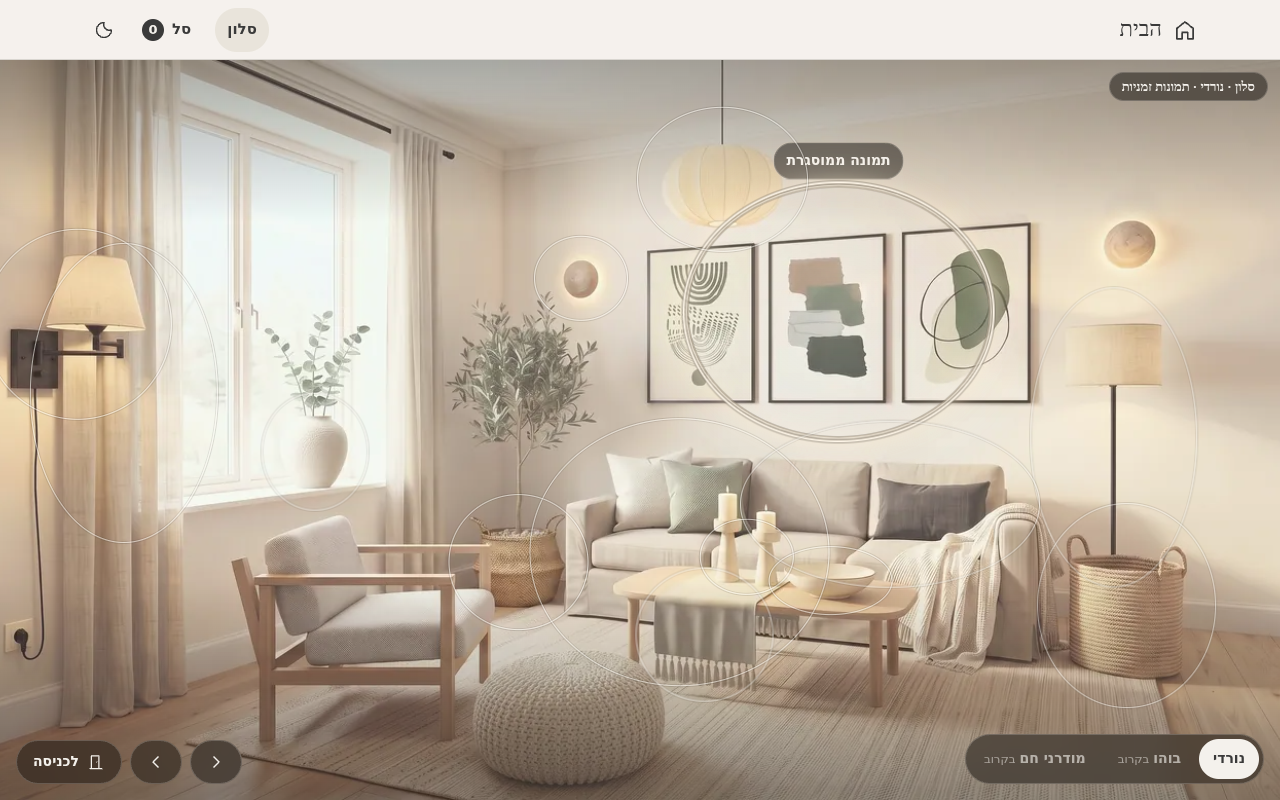
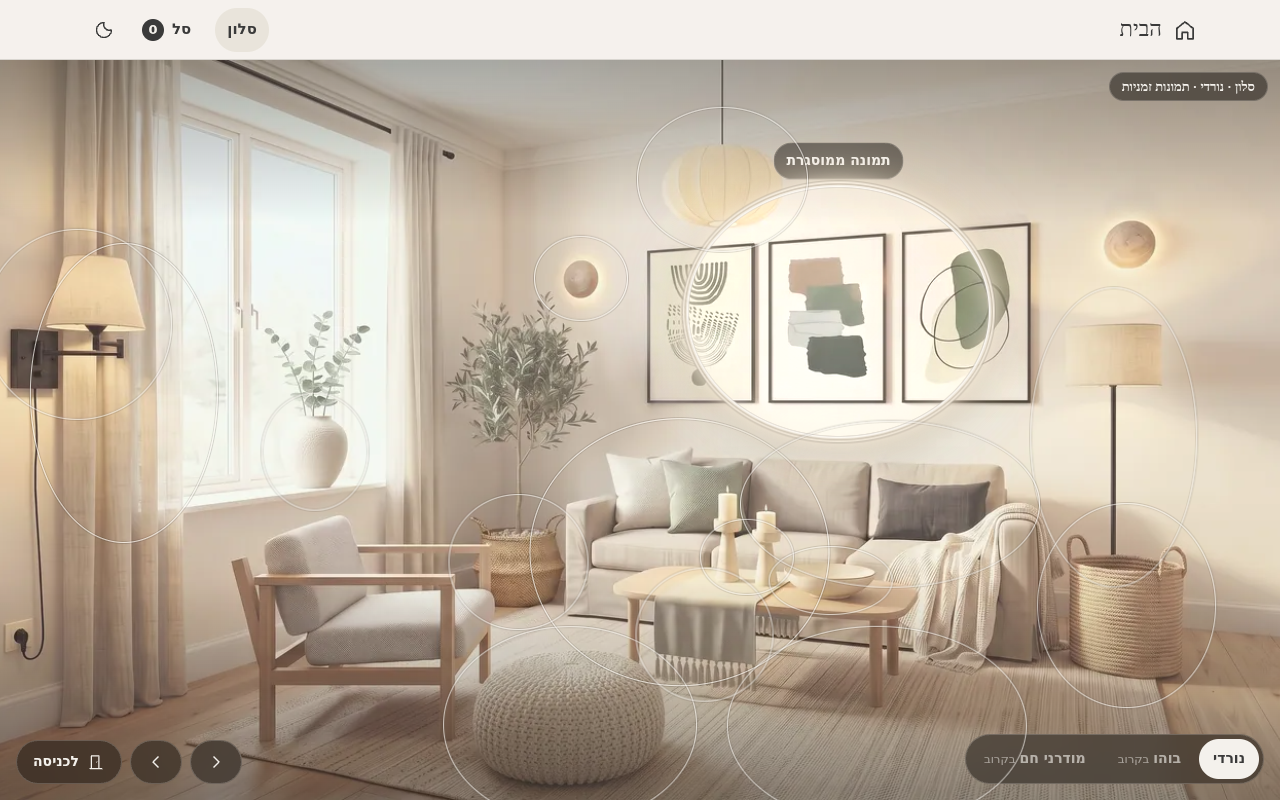
UI fixes WIP after restart
Claude-Session: https://claude.ai/code/session_012un7iEDRha5J5s2Ea72wCe

diff --git a/site/tools/screens-room.ts b/site/tools/screens-room.ts
@@ -208,8 +208,11 @@ async function hotspots(): Promise<void> {
   await page.waitForTimeout(500);
   await page.screenshot({ path: `${OUT}/${PREFIX}hotspots-glow-hover.png` });
   await page.mouse.move(5, 5);
-  await page.keyboard.press('Tab');
-  await page.locator('button.hotspot[data-slot="framed-art"]').focus();
+  // real keyboard focus (Tab), as a keyboard user gets it
+  for (let i = 0; i < 40; i++) {
+    await page.keyboard.press('Tab');
+    if (await page.evaluate('document.activeElement?.dataset?.slot === "framed-art"')) break;
+  }
   await page.waitForTimeout(500);
   await page.screenshot({ path: `${OUT}/${PREFIX}hotspots-glow-focus.png` });
   await page.context().close();
